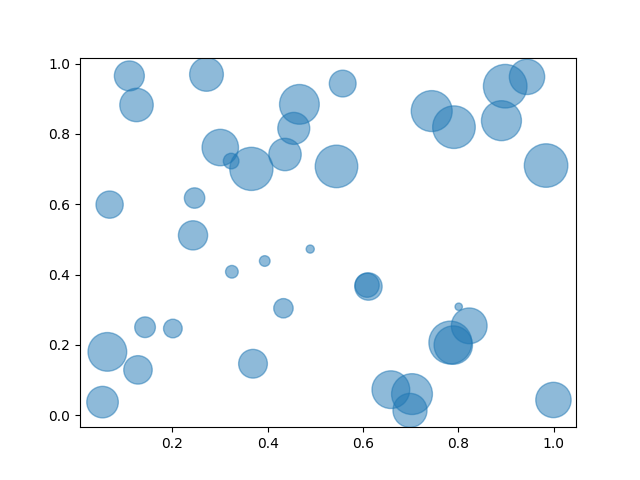
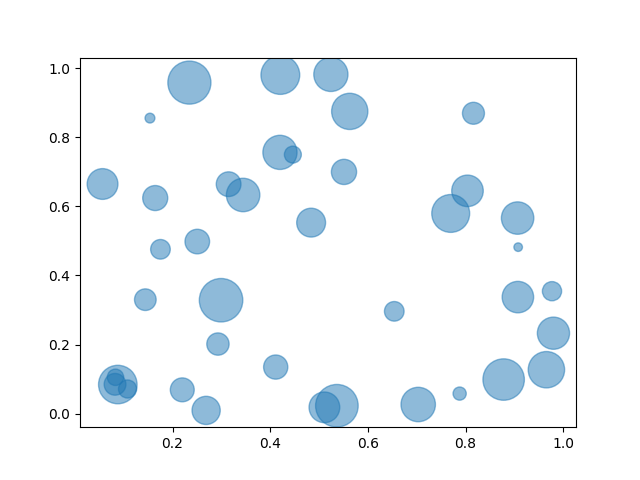
add if to select which graph to display

diff --git a/application/templates/display_summary.html b/application/templates/display_summary.html
@@ -7,6 +7,11 @@
 <p>{{ summary }}</p>
 <br>
 <p>A picture showing symptoms getting 'worse' over time.</p>
+
+{% if pain == False %}
 <img src="{{ url_for('static', filename='./images/scatterplot.png') }}" alt="scatterplot showing symptom change over time">
+{% else %}
+<img src="{{ url_for('static', filename='./images/bubbleplot.png') }}" alt="scatterplot showing symptom change over time">
+{% endif %}
 
 {% endblock %}

diff --git a/application/routes.py b/application/routes.py
@@ -3,6 +3,8 @@ from application import app
 from application.forms import LoginForm, RecordForm
 #from application.summarize import create_summary
 from application.summarize_ai import summarize_with_ai
+from application.scatterplot import scatterplot
+from application.bubbleplot import bubbleplot
 from datetime import datetime
 
 @app.route('/')
@@ -43,4 +45,10 @@ def display_record():
 @app.route('/display_summary')
 def display_summary():
     summary = summarize_with_ai().choices[0].text
-    return render_template('display_summary.html', title='Symptom Summary', summary=summary)
+    pain = True
+    if pain == False:
+        # create symptom scatterplot or bubbleplot to add a dimension of pain information
+        scatterplot()
+    else:
+        bubbleplot()
+    return render_template('display_summary.html', title='Symptom Summary', summary=summary, pain=pain)

diff --git a/application/bubbleplot.py b/application/bubbleplot.py
@@ -1,16 +1,6 @@
 import matplotlib.pyplot as plt
 import numpy as np
 
-def scatterplot():
-    price = [2.50, 1.23, 4.02, 3.25, 5.00, 4.40]
-    sales_per_day = [34, 62, 49, 22, 13, 19]
-
-    plt.scatter(price, sales_per_day)
-    plt.savefig('application/static/images/scatterplot.png')
-    plt.show()
-
-
-
 def bubbleplot():
     x = np.random.rand(40)
     y = np.random.rand(40)
@@ -21,5 +11,4 @@ def bubbleplot():
 
     # show the graph
     plt.savefig('application/static/images/bubbleplot.png')
-    plt.show()
-
+    #plt.show()

diff --git a/application/scatterplot.py b/application/scatterplot.py
@@ -1,0 +1,13 @@
+import matplotlib.pyplot as plt
+import numpy as np
+
+def scatterplot():
+    price = [2.50, 1.23, 4.02, 3.25, 5.00, 4.40]
+    sales_per_day = [34, 62, 49, 22, 13, 19]
+
+    plt.scatter(price, sales_per_day)
+    plt.savefig('application/static/images/scatterplot.png')
+    #plt.show()
+
+
+
